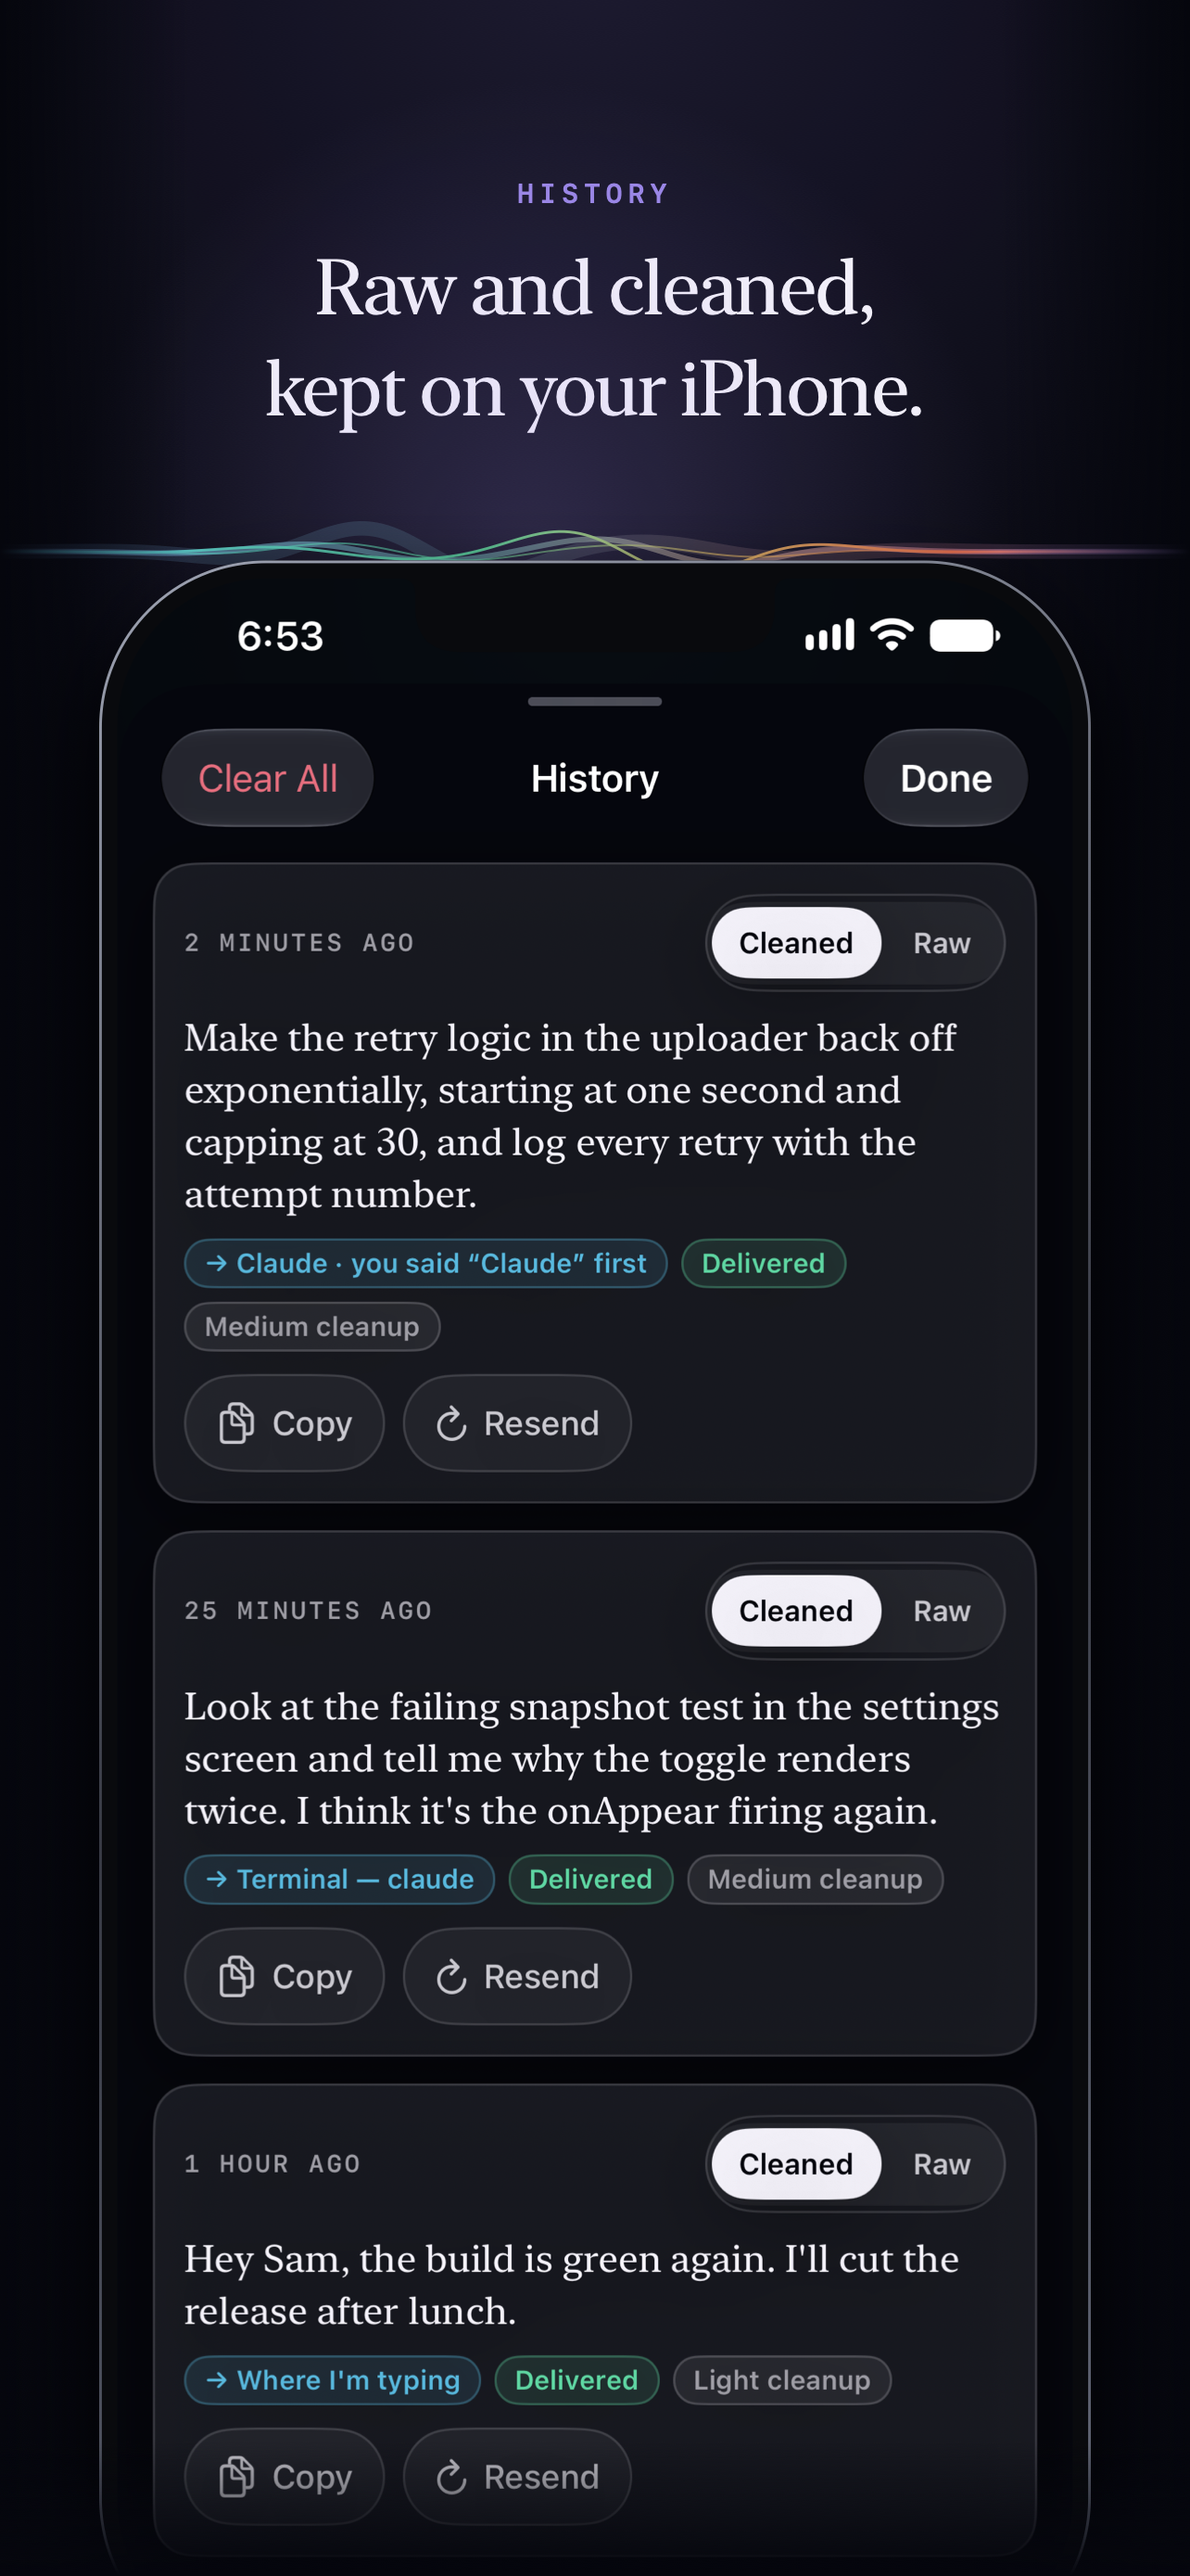
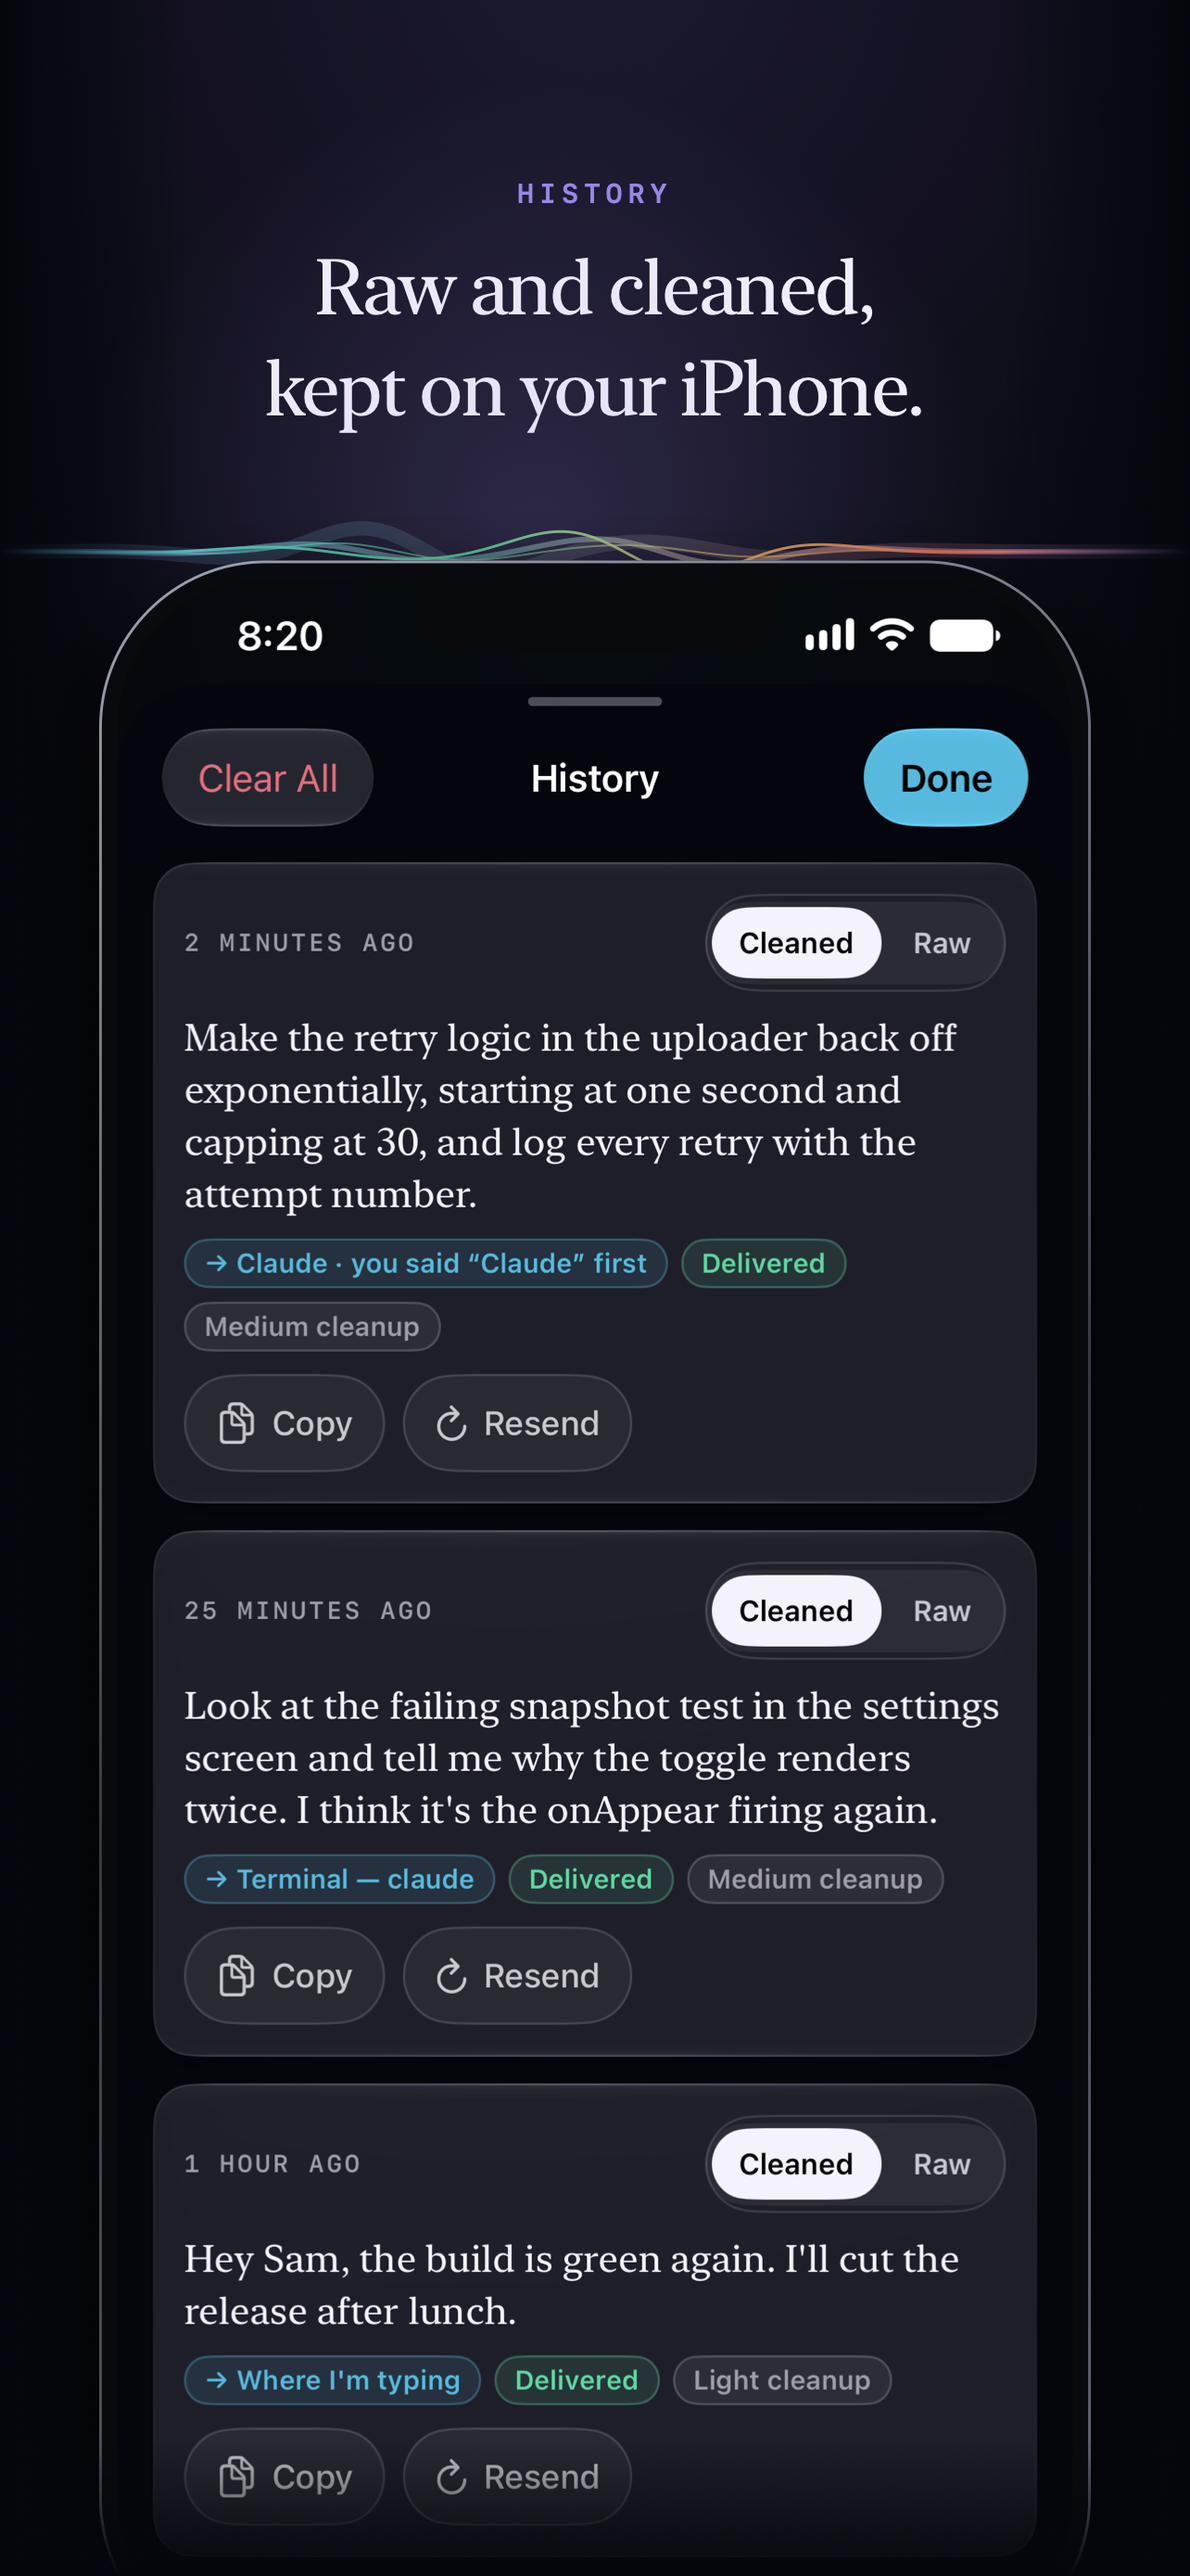
iPhone App Store screenshots re-rendered with the glass controls; the delivered shot shows where it landed ("✓ In Claude — sent — you said “Claude” first"); landing screens with the miss in its colour

diff --git a/iOS/Macrophone/App/DebugHooks.swift b/iOS/Macrophone/App/DebugHooks.swift
@@ -31,7 +31,7 @@ import UIKit
 /// MACROPHONE_INTENT_TARGET=clipboard|front|<name>  runs Start Dictation the way a Shortcut / control does, with that
 ///                                            target (needs MACROPHONE_SIM_RECORD; stops after 3 s)
 /// MACROPHONE_LANDINGS=ignore|ignore-old  drop the Mac's landing reports (a Mac that never confirms / an older one)
-/// MACROPHONE_STATUS=queued|delivered|failed|sending|copied|landing|landed-sent|landed-pasted|landed-clipboard|landed-failed|landed-copied|landed-cancelled|unconfirmed
+/// MACROPHONE_STATUS=queued|delivered|failed|sending|copied|landing|landed-sent|landed-sent-spoken|landed-pasted|landed-clipboard|landed-failed|landed-copied|landed-cancelled|unconfirmed
 /// MACROPHONE_EXPLAIN=<sentence>             the status line's control explanation, held (layout checks)
 /// MACROPHONE_MIC_ONLY=1                      simulator: the real mic without the recognizer (Filament proof)
 /// MACROPHONE_MIC_WORDS=<text>                …with these words appearing as the voice comes in
@@ -245,6 +245,7 @@ enum DebugHooks {
             case "copied": model.debugSetStatus(.copiedOnPhone)
             case "landing": model.debugSetStatus(.landing(mac: mac, to: RouteNote(name: "Claude", spoken: nil, send: true)))
             case "landed-sent": model.debugSetStatus(.landed(Landing(result: .sent, detail: "Sent to Claude", target: TargetRef.app(bundleID: "com.anthropic.claudefordesktop", windowKey: nil, name: "Claude"), to: RouteNote(name: "Claude", spoken: nil, send: true))))
+            case "landed-sent-spoken": model.debugSetStatus(.landed(Landing(result: .sent, detail: "Sent to Claude", target: TargetRef.app(bundleID: "com.anthropic.claudefordesktop", windowKey: nil, name: "Claude"), to: RouteNote(name: "Claude", spoken: "Claude", send: true))))
             case "landed-pasted": model.debugSetStatus(.landed(Landing(result: .pasted, detail: "Pasted into Claude", target: TargetRef.app(bundleID: "com.anthropic.claudefordesktop", windowKey: nil, name: "Claude"), to: RouteNote(name: "Claude", spoken: nil, send: true))))
             case "landed-clipboard": model.debugSetStatus(.landed(Landing(result: .copied, detail: "Copied to clipboard", target: .clipboard, to: RouteNote(name: "Clipboard"))))
             case "landed-failed": model.debugSetStatus(.landed(Landing(result: .failed, detail: "The message box in Claude wasn't found", target: TargetRef.app(bundleID: "com.anthropic.claudefordesktop", windowKey: nil, name: "Claude"), to: RouteNote(name: "Claude", spoken: nil, send: true))))
